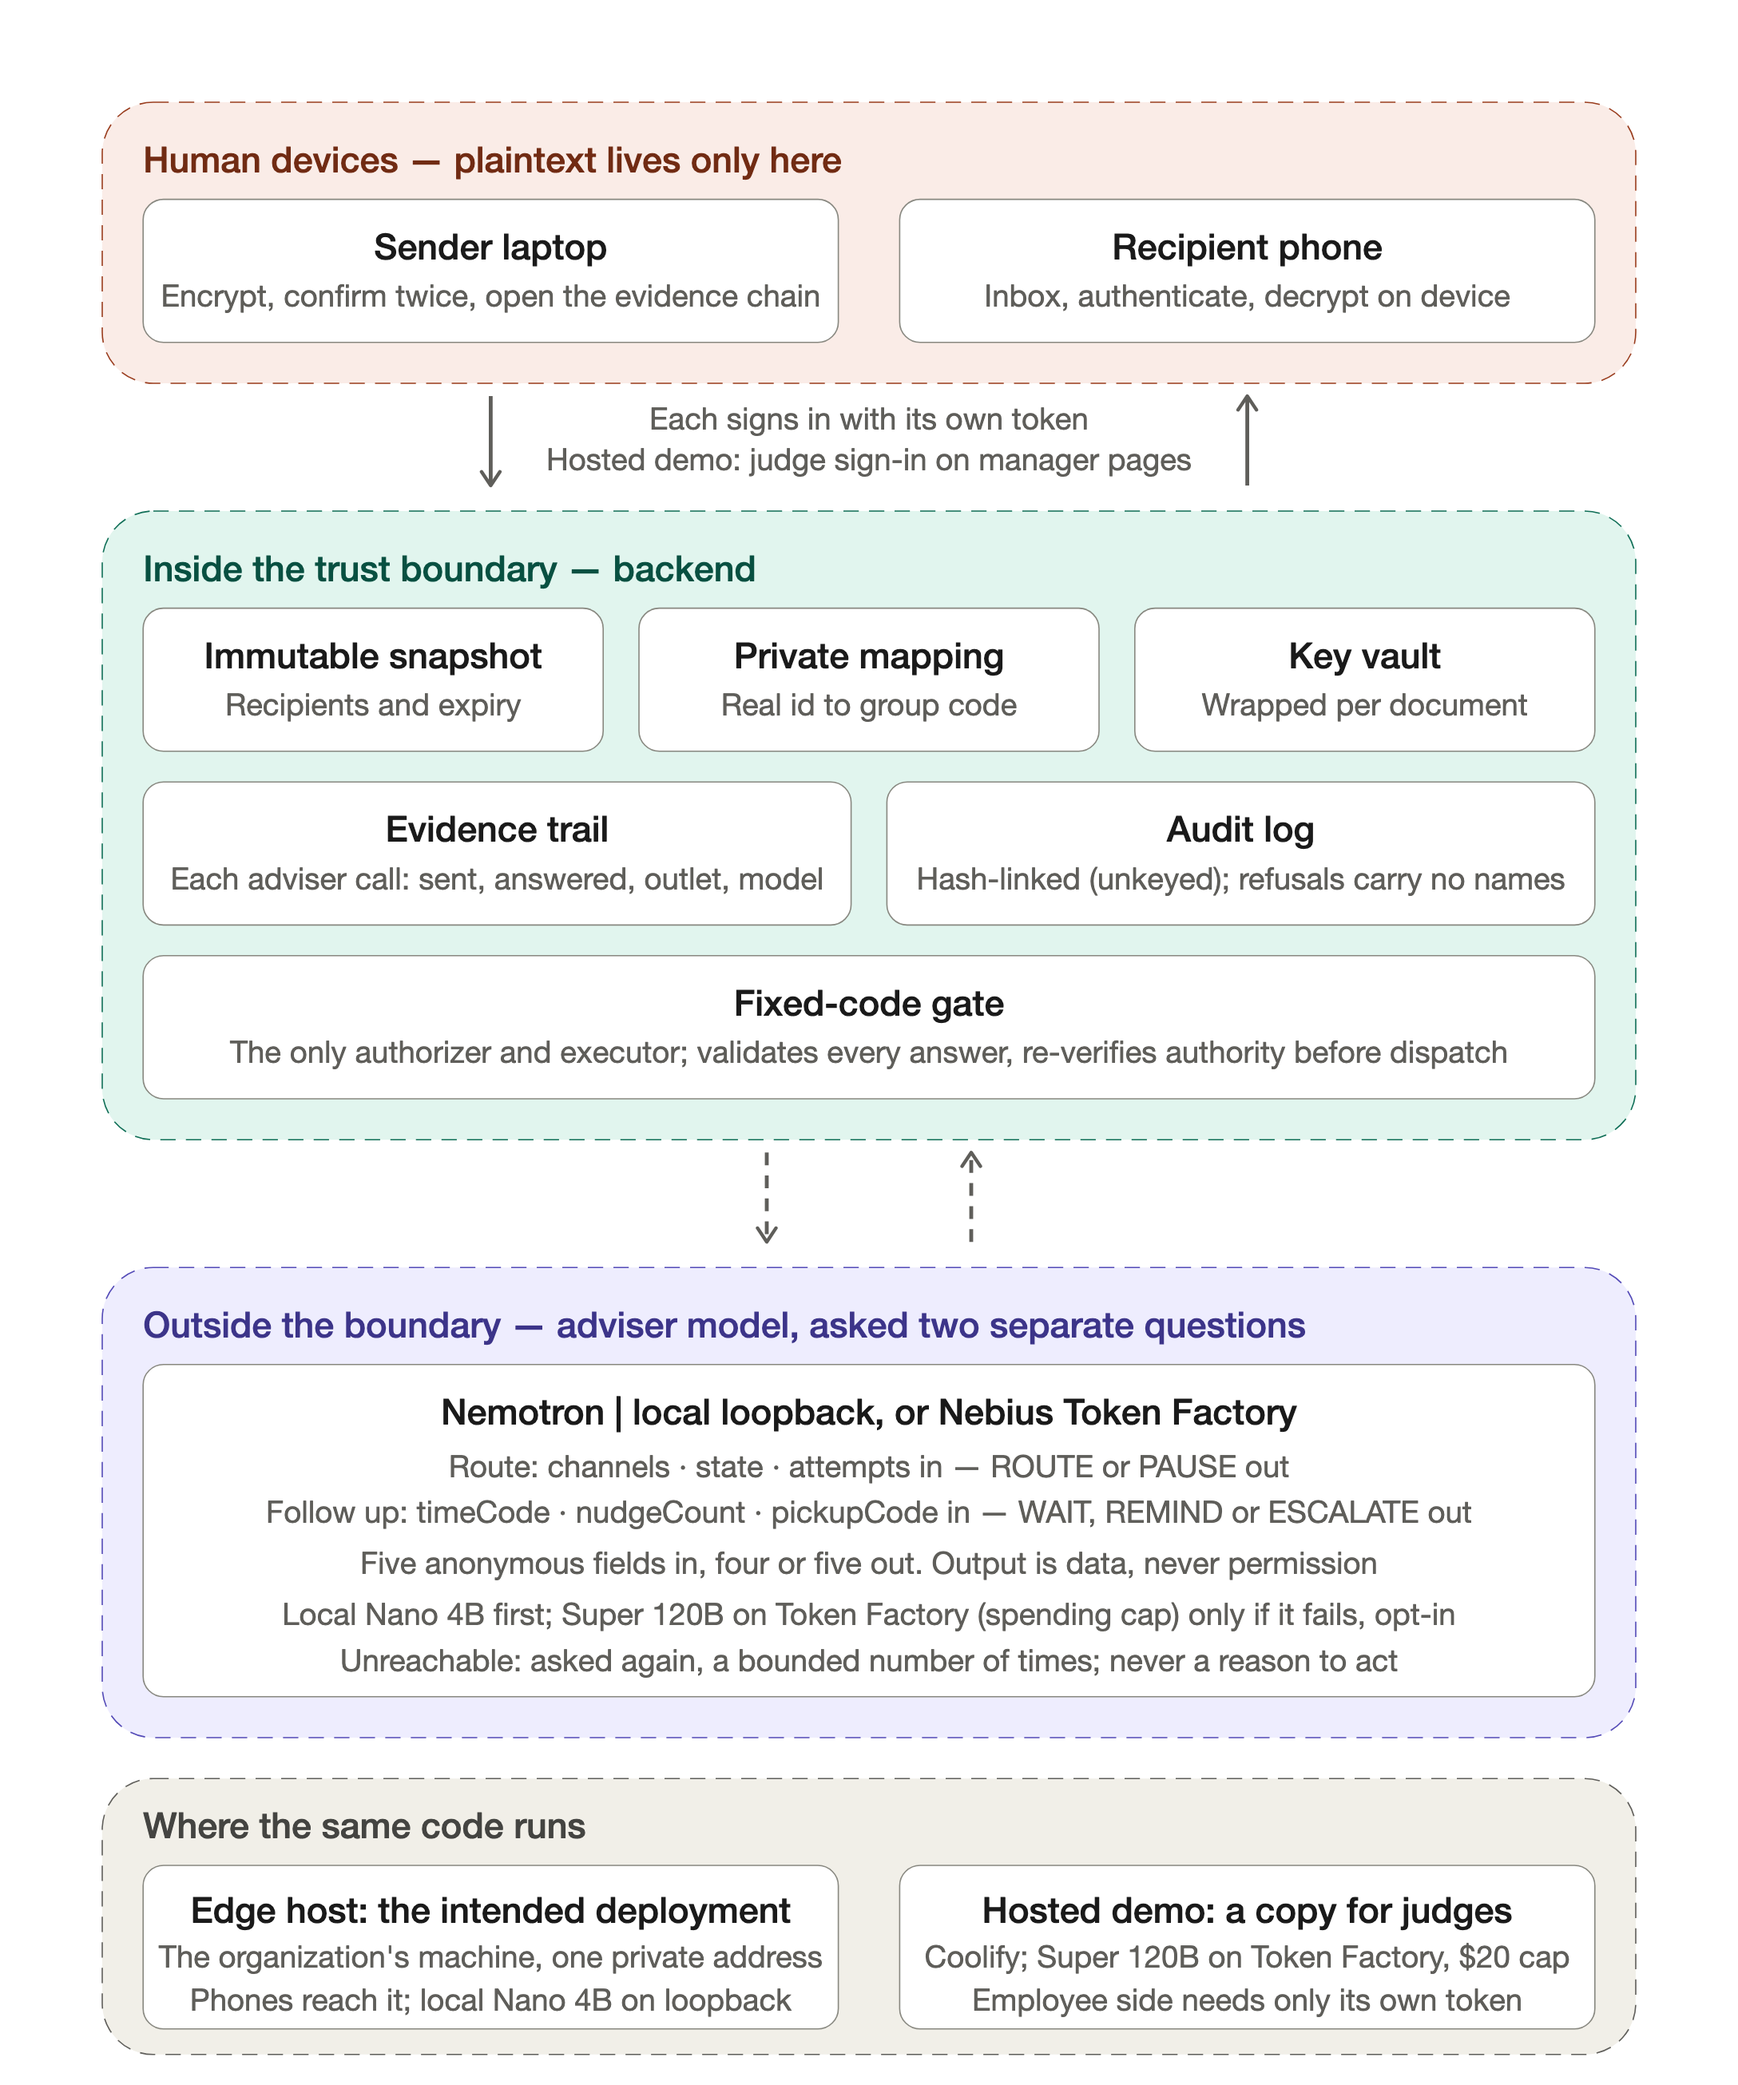
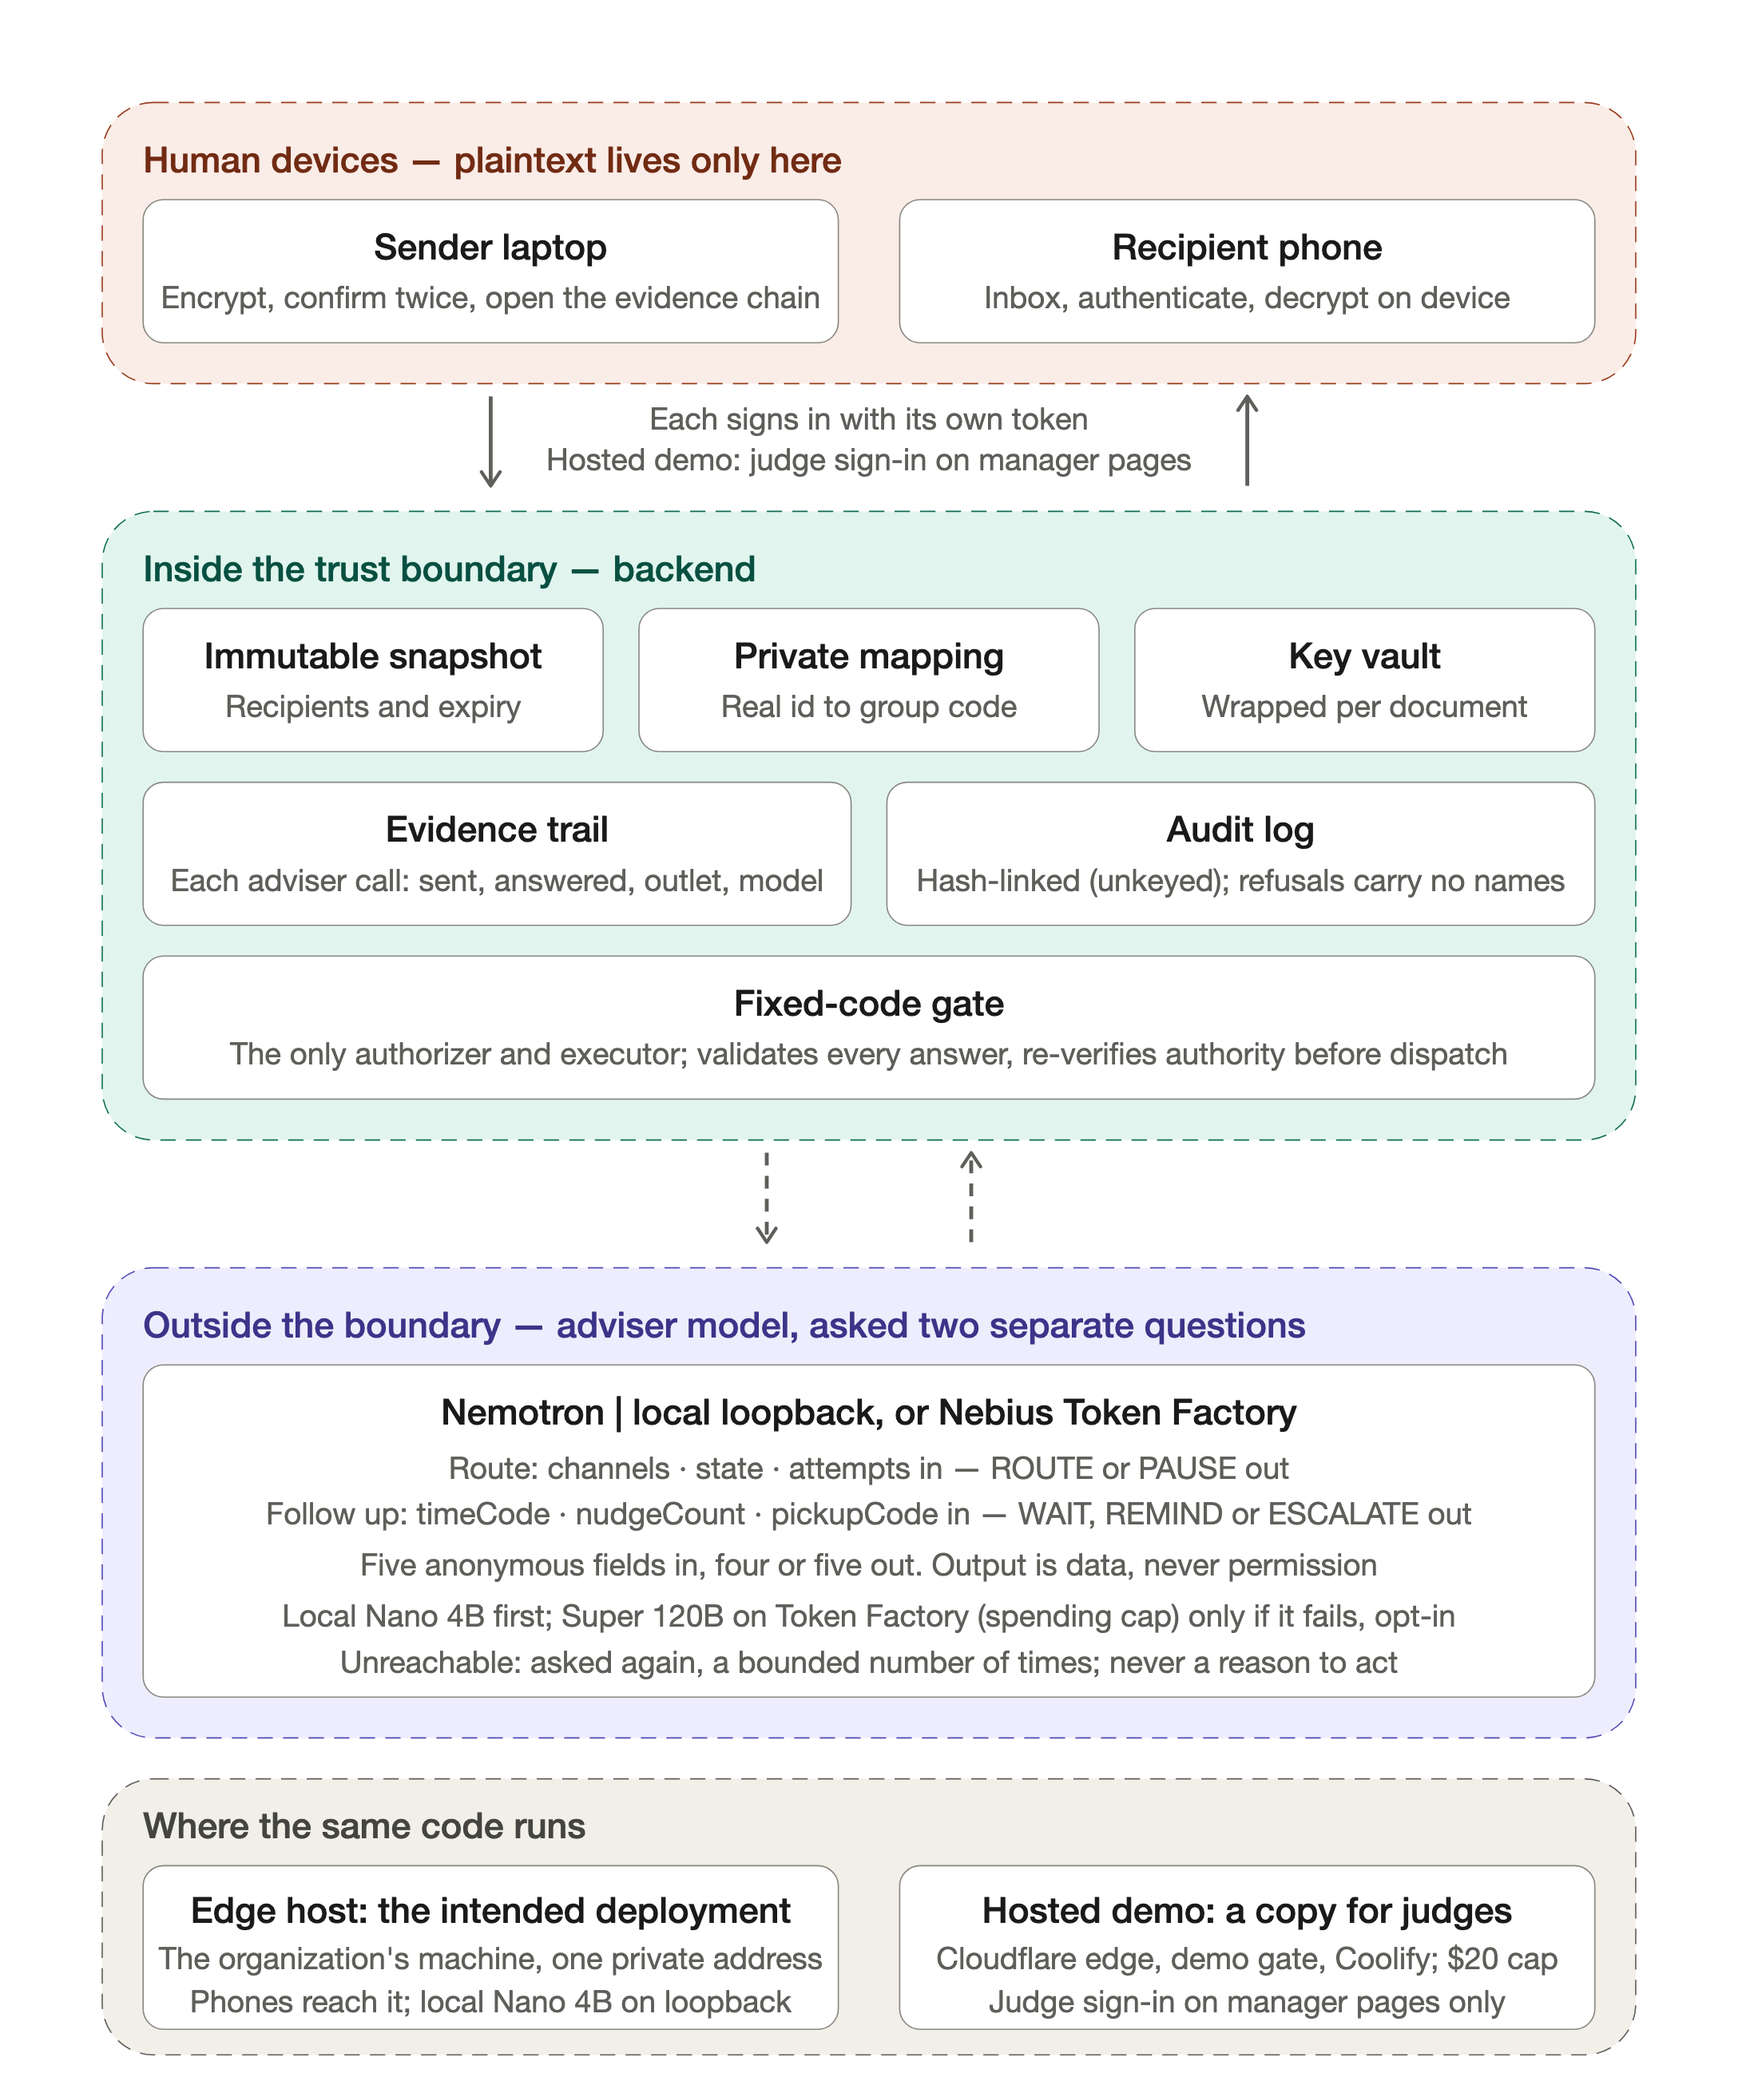
Architecture: the delivery diagram shows the hosted judging layer (Cloudflare edge, demo gate, open paths) and the single answer code; English diagram added; trust-boundary image names the edge and the gate; README shows the diagram on the first screen

diff --git a/docs/agent/approved-delivery-architecture.md b/docs/agent/approved-delivery-architecture.md
@@ -1,6 +1,6 @@
 # 收斂版密件交付架構
 
-更新：2026-09-19（原 2026-09-08；新增投遞催促顧問）。範圍：單一本機服務、合成名單、email dry-run。真實 Nebius Token Factory／NVIDIA Nemotron 受限呼叫已有隔離測試證據；本機預設仍為合成回應，評審用託管版（2026-09-24 起）在 20 美元上限內於執行期呼叫 Token Factory。沒有多地協調、數位簽章或發文者二次回覆協議。真實寄送、企業 SSO、獨立 KMS 不在本輪交付範圍；地端 Nano 4B 出口已實測。
+更新：2026-10-30（2026-09-19 版新增投遞催促顧問；本次補上託管評審站的邊界與英文版圖）。範圍：單一本機服務、合成名單、email dry-run。真實 Nebius Token Factory／NVIDIA Nemotron 受限呼叫已有隔離測試證據；本機預設仍為合成回應，評審用託管版（2026-09-24 起）在 20 美元上限內於執行期呼叫 Token Factory。沒有多地協調、數位簽章或發文者二次回覆協議。真實寄送、企業 SSO、獨立 KMS 不在本輪交付範圍；地端 Nano 4B 出口已實測。
 
 本圖表示原始碼已實作的界線，不代表現有預覽程序已載入最新模型提示詞，GitHub 自 2026-09-18 起公開。實線為本地流程，虛線為受限建議或模擬通知；不是物理單向網路。
 
@@ -8,6 +8,14 @@
 
 ```mermaid
 flowchart TB
+  subgraph Hosted["託管評審站（只有託管版有；本機版沒有這一層）"]
+    Edge["Cloudflare 邊緣<br/>你自己的 Coolify 伺服器之前"]
+    DemoGate["示範閘 demo-gate<br/>評審登入只擋發文、稽核、管理頁<br/>收件人頁面只靠自己的憑證"]
+    OpenPaths["不需登入：登入頁、/api/health<br/>/api/sso/status 只回是否啟用，不含機密"]
+    Edge --> DemoGate
+    Edge --> OpenPaths
+  end
+  DemoGate -->|"通過閘門仍要有效憑證"| Registry
   subgraph Human["發文者"]
     File["選擇 PDF／DOCX／CSV"]
     Seal["瀏覽器加密<br/>不預覽內文"]
@@ -24,7 +32,7 @@ flowchart TB
     Commit["持久核准與工作紀錄"]
     Gate["固定程式驗證<br/>名單、版本、撤銷、渠道"]
     Worker["有限重試與催促迴路<br/>只準備模擬通知"]
-    Access["收件身分驗證<br/>密文與取鑰分開檢查"]
+    Access["收件身分驗證<br/>密文與取鑰分開檢查<br/>查無此名與未被授權：同一個回應碼"]
     Mode{"已核准交付模式"}
     Required["指定人交付<br/>無額外下載截止<br/>仍須有效授權"]
     Timed["限時下載<br/>到期拒絕新取用<br/>中止未完成的服務端傳輸"]
@@ -66,6 +74,7 @@ flowchart TB
   classDef secure fill:#edf2fa,stroke:#4b6d9e,color:#20354d
   classDef limit fill:#fff2db,stroke:#a77327,color:#503814
   class File,Seal,List,First,Second,History,Download,Receipt,SenderStatus person
+  class Edge,DemoGate,OpenPaths limit
   class Registry,Store,Commit,Gate,Worker,Access,Key,Saved,Retention secure
   class Mode,Required,Timed,Codes,Adviser,Cloud,MCP limit
 ```
@@ -76,7 +85,7 @@ flowchart TB
 - 有兩組五欄投影，各自獨立驗證。路由：taskAlias、snapshotVersion、channels、state、attempts，回答 ROUTE 或 PAUSE。催促：taskAlias、snapshotVersion、timeCode、nudgeCount、pickupCode，回答 WAIT、REMIND 或 ESCALATE，僅適用於 REQUIRED_ACK 且期限未到的投遞。
 - timeCode 是該任務自身窗口的相對位置，pickupCode 是序位不是數量，兩者都推不回時鐘值或人數。提醒要送給誰由固定程式從收據還原，顧問看不到，已領取者直接跳過。雲端模型須同時明確設定 LOCAL_ONLY=false、COORDINATOR_PROVIDER=nebius 與後端金鑰，僅放金鑰不會啟用；地端出口為 COORDINATOR_PROVIDER=local_openai_compatible，只接受 loopback 位址。MCP 與模型不是同一元件，MCP 不直接觸發檔案交付。
 - 路由階段：模型回答先經固定程式驗證；輸出無效（ADVICE_INVALID）或建議暫停（ADVICE_PAUSED）立即 PAUSED。首次路由檢查（PENDING_CHECK）模型連不上時工作維持 PENDING_CHECK，30 秒後再問，最多 3 次（已在 RETRY_WAIT 的投遞連不上則直接 PAUSED），仍不可用才 PAUSED（ADVISER_UNAVAILABLE，可由發文者申請恢復，恢復後重試次數歸零）；請求尚未送出就失敗（出口停用或設定錯誤）不重試。催促階段不同：被拒絕或不可用只記錄 followupPausedBy 並延後重新考慮，前三次各隔一分鐘，之後改為剩餘時間的一半；狀態維持 DRY_RUN_PREPARED，不會把工作推進暫停；全員都已領取就不再詢問模型。兩者都不宣稱雲端中斷就自動改接地端模型，權限有效性在模型前後都重查。
-- 每次顧問呼叫（含失敗）都存入該工作的證據紀錄：送出的投影、通過驗證的回答或拒絕碼、回答來源（Token Factory／本機出口／合成測試）；路由與催促各保留最近 10 筆。發文者（且僅發文者）可在稽核頁開啟證據鏈：核准內容 → 私有映射 → 模型收到什麼 → 回答了什麼 → 固定程式實際派送給誰；查看本身寫入稽核（同一任務每分鐘最多一筆）。
+- 每次路由與催促顧問呼叫（含失敗）都存入該工作的證據紀錄：送出的投影、通過驗證的回答或拒絕碼、回答來源（Token Factory／本機出口／合成測試）；路由與催促各保留最近 10 筆。發文者（且僅發文者）可在稽核頁開啟證據鏈：核准內容 → 私有映射 → 模型收到什麼 → 回答了什麼 → 固定程式實際派送給誰；查看本身寫入稽核（同一任務每分鐘最多一筆）。
 - 兩次確認屬於同一發文者，不是雙人覆核或 MFA。版本、名單或授權有變動，就不能沿用舊確認。
 - 已核准快照不被覆寫；新審核建立新版本。授權失效或撤銷後，不可用新版本名義繼續舊版本取用。
 - 指定人模式不另加 1／4／24 小時的文件下載限制，但不繞過真實授權期限或撤銷。授權續接需要管理員有效授權與發文者重新確認。
@@ -99,3 +108,44 @@ flowchart TB
 此表不新增多地部署或真實寄信。每次 push 前須重新建立副本並掃描。
 
 測試通過不代表真實 email 送達或醫療、金融合規認證。
+
+## English summary diagram
+
+The same flow in English. The hosted layer exists only on the judging site; a local or edge build starts at the sender.
+
+```mermaid
+flowchart TB
+  subgraph Hosted["Hosted judging site only"]
+    Edge["Cloudflare edge in front of the Coolify server"]
+    Gate["Demo gate: judge sign-in covers sender, audit and admin pages;<br/>recipient pages need only the person's own token"]
+    Open["Open without sign-in: sign-in page, /api/health,<br/>/api/sso/status (enabled or not, no secrets)"]
+    Edge --> Gate
+    Edge --> Open
+  end
+  subgraph Sender["Sender"]
+    Pick["Pick a file and an approved list"] --> Seal["Encrypt in the browser"] --> Confirm["Confirm twice on the same version"]
+  end
+  subgraph Backend["Private backend"]
+    Fixed["Fixed-code gate: list, version, revocation, channel"]
+    Store["Ciphertext store; document key wrapped separately"]
+    Evidence["Evidence trail for every routing and follow-up adviser call;<br/>hash-linked audit log"]
+    Access["Recipient identity check;<br/>an unknown name and an unauthorized name get the same answer code"]
+  end
+  subgraph Adviser["Restricted adviser, outside the boundary"]
+    Fields["Two five-field projections:<br/>route (ROUTE or PAUSE), follow-up (WAIT, REMIND or ESCALATE)"]
+    Model["Nemotron: local Nano 4B on loopback, or Super 120B on Token Factory (spending cap)"]
+    Fields -.-> Model
+  end
+  subgraph Recipient["Named recipient on a phone"]
+    Decrypt["Decrypt on the device"] --> Receipt["Confirm receipt"]
+  end
+  Gate --> Fixed
+  Confirm --> Store
+  Confirm --> Fixed
+  Fixed -.-> Fields
+  Model -.->|"untrusted advice, re-validated"| Fixed
+  Fixed --> Evidence
+  Store -->|"only after access checks pass"| Decrypt
+  Access --> Decrypt
+  Receipt --> Evidence
+```

diff --git a/README.md b/README.md
@@ -4,6 +4,10 @@ MIT-licensed encrypted document handoff with a restricted AI adviser. It grew ou
 
 Entry for the Nebius x NVIDIA Global AI Hackathon, track Best Apps and Agents. First commit 2026-09-07, after the hackathon opened on 2026-08-26. The Nemotron models are used through Nebius Token Factory and, locally, through an OpenAI-compatible runtime; they are not bundled here. Super and Nano are under the NVIDIA Nemotron Open Model License; Ultra, measured only as a benchmark, is under OpenMDW-1.1 (see `docs/agent/nvidia-model-provenance.md`). The Token Factory runtime call is `requestFileAdvice` in `file-adviser.js` (POST `/v1/chat/completions`).
 
+![Architecture: what each party can reach, the adviser outside the trust boundary, and where the same code runs (edge host, hosted demo behind Cloudflare and the demo gate)](docs/assets/architecture-trust-boundary.svg)
+
+The diagram above is the trust boundary; the delivery sequence and the task state machine are under [Architecture](#architecture), and the flow in text form (with the hosted layer) is in [approved delivery architecture](docs/agent/approved-delivery-architecture.md).
+
 **At a glance**
 
 - What it is: encrypted document handoff in which a restricted AI adviser only proposes routing and follow-up; fixed code verifies and executes. Its claims are the tests and measurements below, which a judge can rerun.
